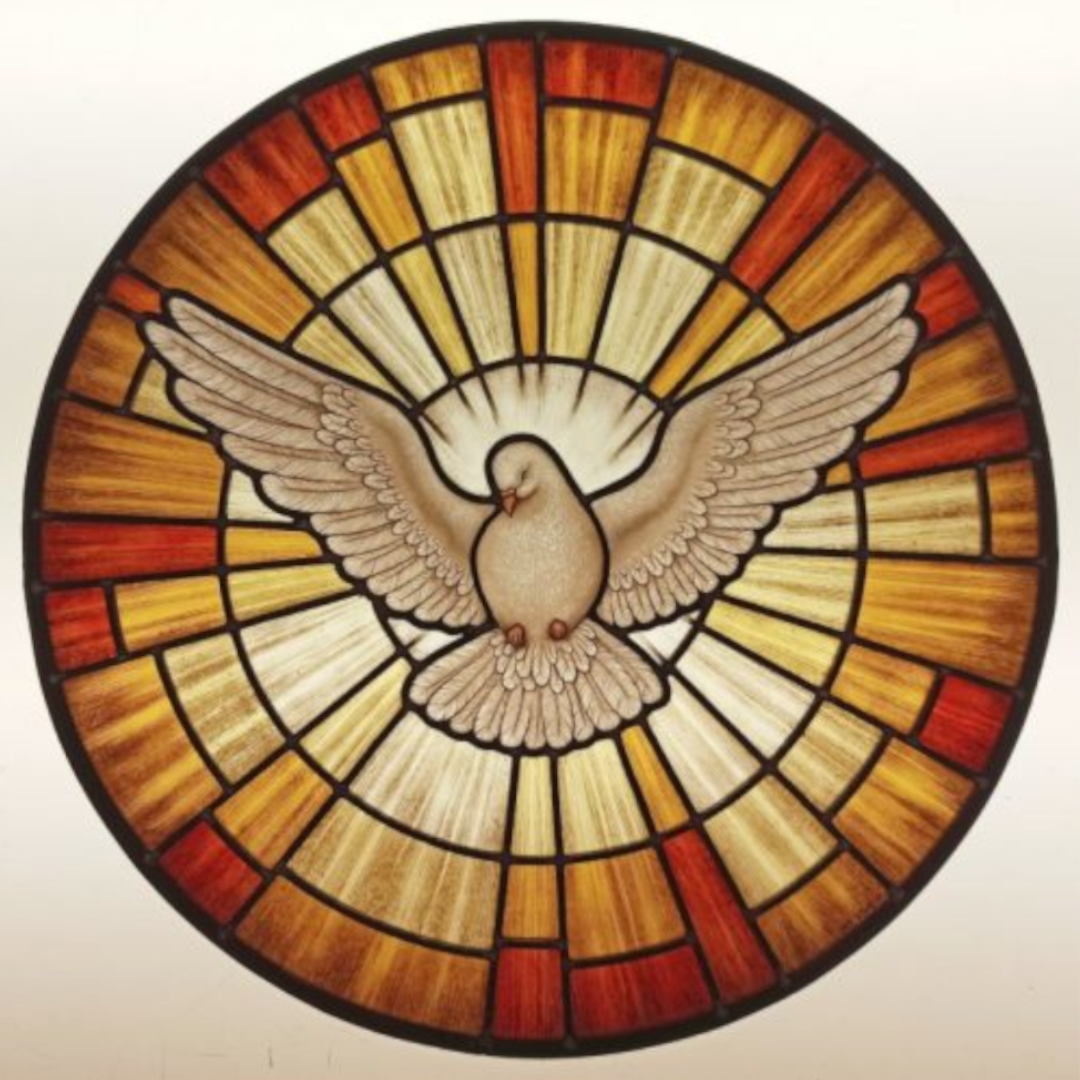
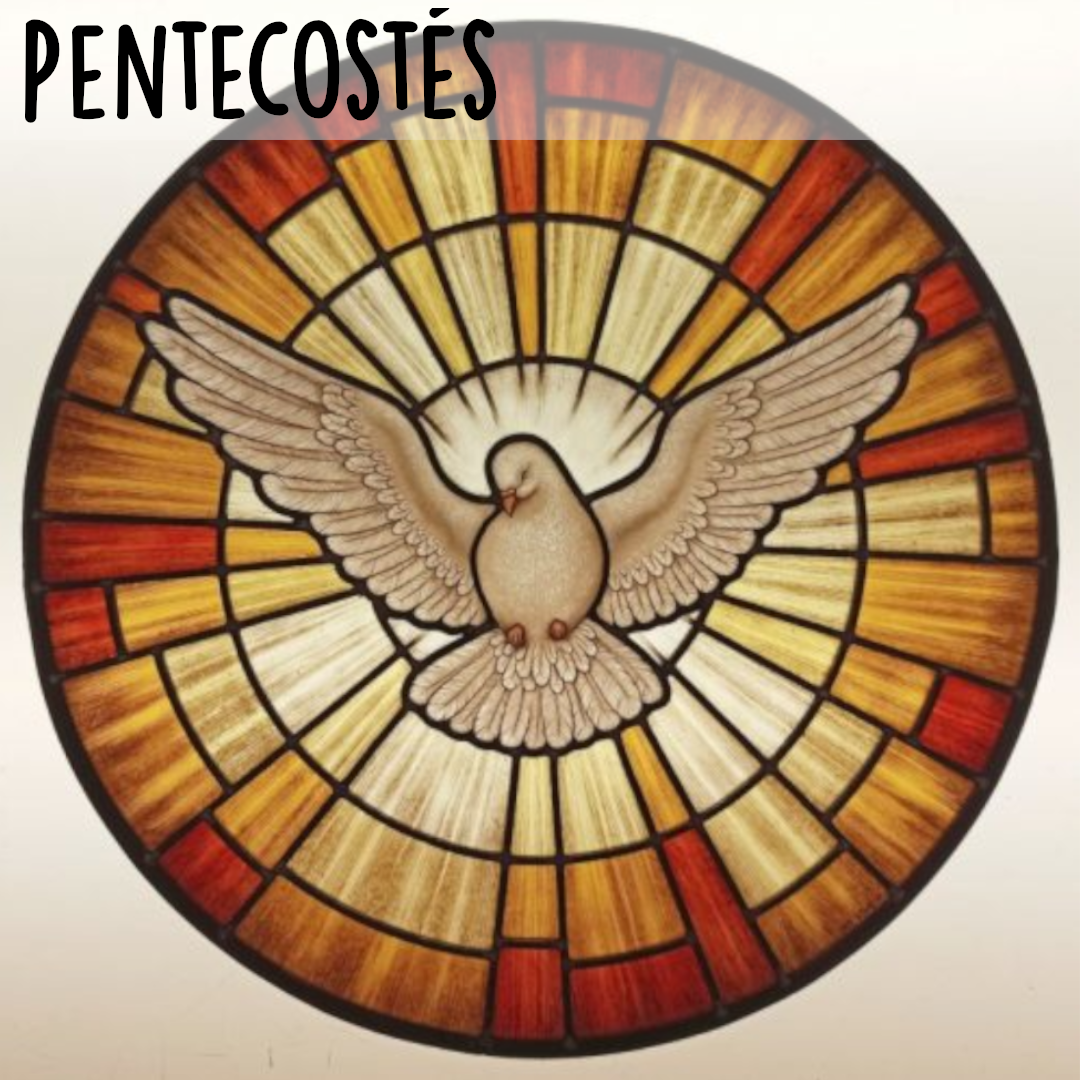
SDF

Changed region(s): [[0.0, 0.0, 0.7944, 0.1528]]

diff --git a/spotify.html b/spotify.html
@@ -115,9 +115,7 @@
                 <div class="card bg-dark">
                     <img src="img/mate.png" class="card-img" alt="...">
                     <div class="card-img-overlay">
-                      <h5 class="card-title">INSTRUMENTALES</h5>
-                      <p class="card-text">This is a wider card with supporting text below as a natural lead-in to additional content. This content is a little bit longer.</p>
-                      <p class="card-text">Last updated 3 mins ago</p>
+
                       <!-- Button trigger modal -->
                       <div class="padre">
                         <button type="button" class="btn spotify hijo" data-bs-toggle="modal" data-bs-target="#exampleModal">
@@ -161,10 +159,7 @@
                 <div class="card bg-dark text-white">
                     <img src="img/salmo.png" class="card-img" alt="...">
                     <div class="card-img-overlay">
-                      <h5 class="card-title">SALMOS</h5>
-                      <p class="card-text">This is a wider card with supporting text below as a natural lead-in to additional content. This content is a little bit longer.</p>
-                      <p class="card-text">Last updated 3 mins ago</p>
-                      <!-- Button trigger modal -->
+                     <!-- Button trigger modal -->
                       <div class="padre">
                         <button type="button" class="btn spotify hijo" data-bs-toggle="modal" data-bs-target="#salmos">
                             <img src="img/spotify.png" alt="">
@@ -206,9 +201,6 @@
                 <div class="card bg-dark">
                     <img src="img/pentecostes.png" class="card-img" alt="...">
                     <div class="card-img-overlay">
-                      <h5 class="card-title">PENTECOSTES</h5>
-                      <p class="card-text">This is a wider card with supporting text below as a natural lead-in to additional content. This content is a little bit longer.</p>
-                      <p class="card-text">Last updated 3 mins ago</p>
                       <!-- Button trigger modal -->
                       <div class="padre">
                         <button type="button" class="btn spotify hijo" data-bs-toggle="modal" data-bs-target="#pentecostes">

diff --git a/css/styles.css b/css/styles.css
@@ -153,7 +153,7 @@ h6 {
   /* IMPORTANTE */
   text-align: center;
   position: relative;
-  bottom: -25%;
+  bottom: -60%;
 }
 
 .hijo {
@@ -165,7 +165,7 @@ h6 {
 .publicacion{
   font-family: "Bebas Neue";
   font-style: bold;
-  font-size: 20px;
-  color: #000000;
+  font-size: 15px;
+  color: #2fc800;
   
 }
